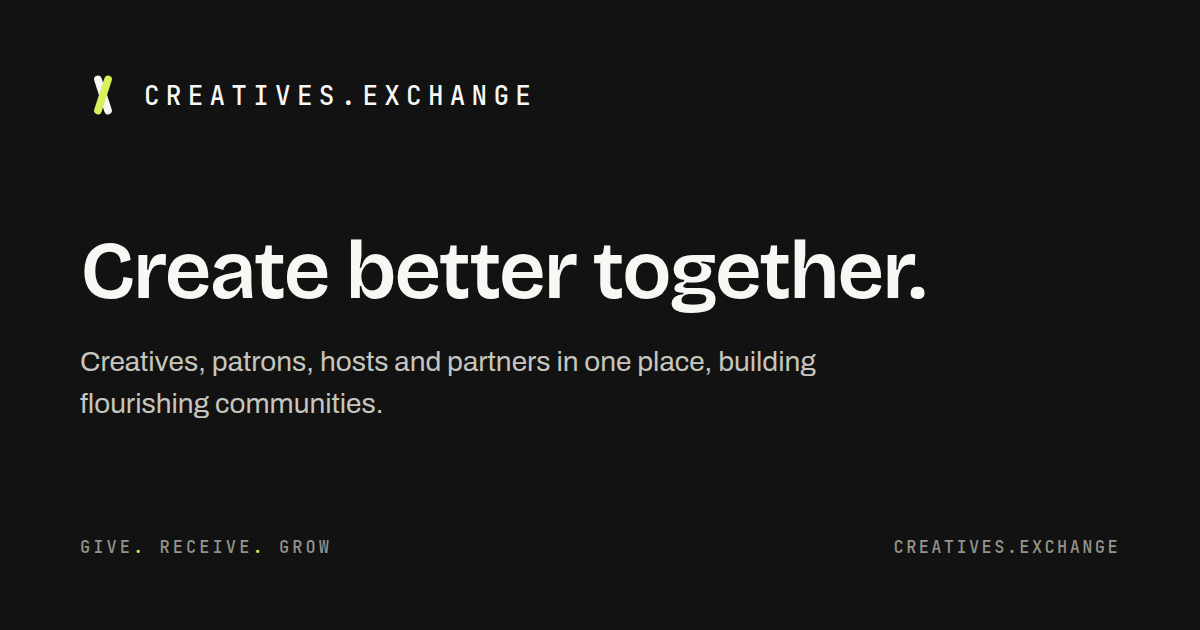
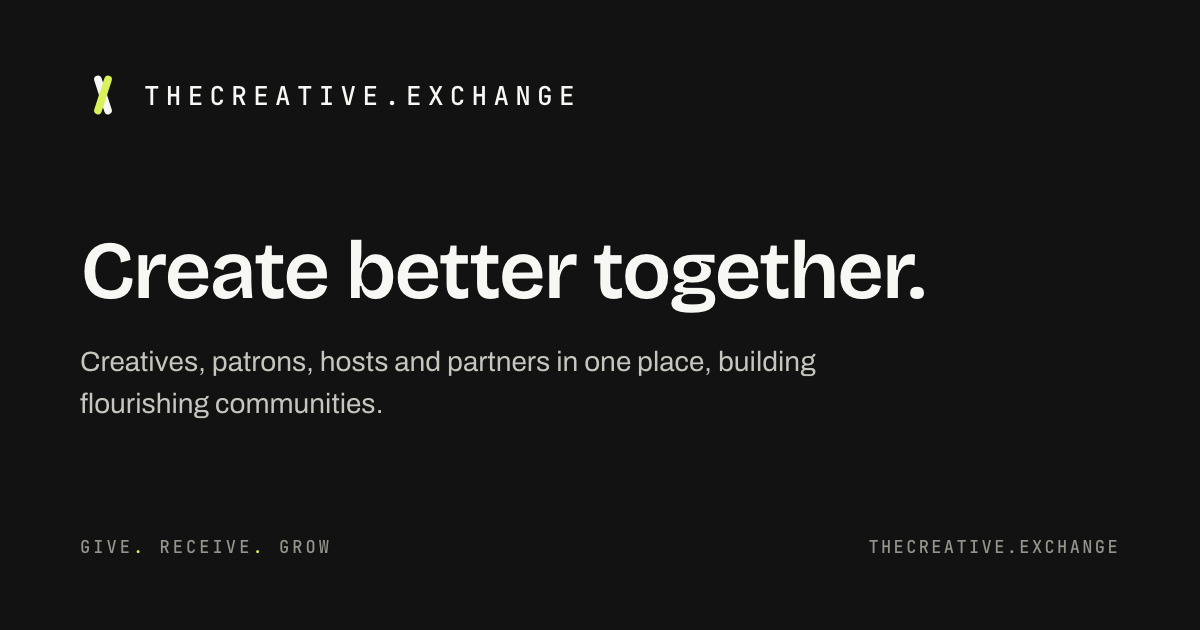
Move to thecreative.exchange; start Google sign-in on the canonical host; let people skip the first-work step
- Every site URL, og tag, sitemap, email fallback and share image now says
  thecreative.exchange. Kept on purpose: calendar UIDs (changing them
  duplicates entries already in people's calendars), the YouTube handle,
  the seed-data email marker, and the hello@ addresses until mail on the
  new domain is set up.
- Google sign-in only works when it starts on the host Convex returns to:
  the one-time verifier lives in that origin's localStorage. Starting on
  any other host (creatives.exchange, www., a community domain) sent people
  back to /login. Login and signup now hop to the canonical host first.
- Onboarding step 3 (share your first work) had no way out without
  uploading something. Adds 'Skip for now'; nothing downstream needs work.

diff --git a/app/public/events/first-table/index.html b/app/public/events/first-table/index.html
@@ -8,12 +8,12 @@
 <meta property="og:title" content="A table for the ones making things">
 <meta property="og:description" content="An evening for San Diego creatives and the people who support them. Free — save your chair.">
 <meta property="og:type" content="website">
-<meta property="og:url" content="https://creatives.exchange/events/first-table/">
-<meta property="og:image" content="https://creatives.exchange/og-image.png">
+<meta property="og:url" content="https://thecreative.exchange/events/first-table/">
+<meta property="og:image" content="https://thecreative.exchange/og-image.png">
 <meta property="og:image:width" content="1200">
 <meta property="og:image:height" content="630">
 <meta name="twitter:card" content="summary_large_image">
-<meta name="twitter:image" content="https://creatives.exchange/og-image.png">
+<meta name="twitter:image" content="https://thecreative.exchange/og-image.png">
 <link rel="stylesheet" href="/about/fonts/fonts.css">
 <style>
   :root {
@@ -93,7 +93,7 @@
 
   <div class="cta">
     <a class="btn btn-citron" href="mailto:rickmoy@gmail.com?subject=Save%20me%20a%20chair%20%E2%80%94%20A%20table%20for%20the%20ones%20making%20things&body=Name%3A%0AWhat%20I%20make%20(or%20fund%2C%20or%20host)%3A%0A">Save me a chair</a>
-    <a class="btn btn-ghost" href="mailto:?subject=worth%20a%20look%20%E2%80%94%20a%20table%20for%20SD%20creatives&body=https%3A%2F%2Fcreatives.exchange%2Fevents%2Ffirst-table%2F">Bring someone</a>
+    <a class="btn btn-ghost" href="mailto:?subject=worth%20a%20look%20%E2%80%94%20a%20table%20for%20SD%20creatives&body=https%3A%2F%2Fthecreative.exchange%2Fevents%2Ffirst-table%2F">Bring someone</a>
   </div>
 
   <div class="credit">Hosted by <b>Rick · David · Haley · Joseph</b></div>

diff --git a/app/app/routes/signup.tsx b/app/app/routes/signup.tsx
@@ -8,6 +8,7 @@ import { api } from "../../convex/_generated/api";
 import { normalizePhone } from "../../convex/phone";
 import { normalizeInviteCode } from "../../convex/inviteCode";
 import { entryCommunityArgs } from "../lib/entryCommunity";
+import { ensureOAuthHost } from "../lib/oauthHost";
 import { isCheckoutSessionId } from "../../convex/garden/ticketLink";
 
 export function meta() {
@@ -25,13 +26,13 @@ export function meta() {
     { property: "og:type", content: "website" },
     {
       property: "og:image",
-      content: "https://creatives.exchange/og-image.png",
+      content: "https://thecreative.exchange/og-image.png",
     },
     { property: "og:image:width", content: "1200" },
     { property: "og:image:height", content: "630" },
     {
       name: "twitter:image",
-      content: "https://creatives.exchange/og-image.png",
+      content: "https://thecreative.exchange/og-image.png",
     },
     { name: "twitter:card", content: "summary_large_image" },
     { name: "twitter:title", content: "Join TheCreative.exchange" },
@@ -289,6 +290,7 @@ export default function Signup() {
       setError(gateError);
       return;
     }
+    if (!ensureOAuthHost()) return;
 
     setGoogleLoading(true);
 

diff --git a/app/app/routes/login.tsx b/app/app/routes/login.tsx
@@ -4,6 +4,7 @@ import { useState, useEffect } from "react";
 import { Link, useNavigate } from "react-router";
 import { useConvexAuth } from "convex/react";
 import { normalizePhone } from "../../convex/phone";
+import { ensureOAuthHost } from "../lib/oauthHost";
 
 export function meta() {
   return [
@@ -22,13 +23,13 @@ export function meta() {
     { property: "og:type", content: "website" },
     {
       property: "og:image",
-      content: "https://creatives.exchange/og-image.png",
+      content: "https://thecreative.exchange/og-image.png",
     },
     { property: "og:image:width", content: "1200" },
     { property: "og:image:height", content: "630" },
     {
       name: "twitter:image",
-      content: "https://creatives.exchange/og-image.png",
+      content: "https://thecreative.exchange/og-image.png",
     },
     { name: "twitter:card", content: "summary_large_image" },
     { name: "twitter:title", content: "Sign In - TheCreative.exchange" },
@@ -139,6 +140,7 @@ export default function Login() {
 
   async function handleGoogleSignIn() {
     setError("");
+    if (!ensureOAuthHost()) return;
     setGoogleLoading(true);
 
     try {

diff --git a/app/convex/inviteCode.test.ts b/app/convex/inviteCode.test.ts
@@ -31,7 +31,7 @@ describe("normalizeInviteCode", () => {
 
   it("extracts the code from a pasted full link", () => {
     expect(normalizeInviteCode("creatives.exchange/signup/K7M4QD")).toBe("K7M4QD");
-    expect(normalizeInviteCode("https://creatives.exchange/signup/K7M4QD")).toBe(
+    expect(normalizeInviteCode("https://thecreative.exchange/signup/K7M4QD")).toBe(
       "K7M4QD",
     );
     expect(normalizeInviteCode("creatives.exchange/signup/K7M4QD/")).toBe("K7M4QD");
@@ -44,7 +44,7 @@ describe("normalizeInviteCode", () => {
     expect(normalizeInviteCode("creatives.exchange/signup/rick-moy")).toBe(
       "rick-moy",
     );
-    expect(normalizeInviteCode("https://creatives.exchange/signup/rick-moy-2")).toBe(
+    expect(normalizeInviteCode("https://thecreative.exchange/signup/rick-moy-2")).toBe(
       "rick-moy-2",
     );
   });
@@ -54,7 +54,7 @@ describe("normalizeInviteCode", () => {
       "rick-moy",
     );
     expect(
-      normalizeInviteCode("https://creatives.exchange/?invite=K7M4QD&utm_source=x"),
+      normalizeInviteCode("https://thecreative.exchange/?invite=K7M4QD&utm_source=x"),
     ).toBe("K7M4QD");
   });
 

diff --git a/app/app/lib/oauthHost.ts b/app/app/lib/oauthHost.ts
@@ -1,0 +1,24 @@
+import { SITE_ORIGIN } from "./eventCalendar";
+
+// Google sign-in only works when it starts on the same host it finishes on.
+// Convex Auth keeps a one-time verifier in this origin's localStorage, and
+// Convex sends the browser back to SITE_URL (the canonical host). Starting
+// on any other host (the old creatives.exchange, a www. alias, a community
+// domain) leaves the verifier behind, the code exchange fails, and the
+// person lands back on /login. So: hop to the canonical host first, same
+// path and query, and let them press the button there.
+export function isOAuthHost(hostname: string): boolean {
+  return (
+    hostname === new URL(SITE_ORIGIN).hostname ||
+    hostname === "localhost" ||
+    hostname === "127.0.0.1"
+  );
+}
+
+/** True when it's safe to start Google sign-in here; otherwise sends the
+ * browser to the same page on the canonical host and returns false. */
+export function ensureOAuthHost(): boolean {
+  if (isOAuthHost(window.location.hostname)) return true;
+  window.location.assign(SITE_ORIGIN + window.location.pathname + window.location.search);
+  return false;
+}

diff --git a/app/app/lib/eventCalendar.test.ts b/app/app/lib/eventCalendar.test.ts
@@ -60,7 +60,7 @@ describe("buildIcs", () => {
 
   it("puts the /j/ proxy link in DESCRIPTION, not a meeting URL", () => {
     expect(unfold(ics)).toContain(
-      `https://creatives.exchange/j/${base.eventId}`,
+      `https://thecreative.exchange/j/${base.eventId}`,
     );
     expect(ics).not.toContain("zoom.us");
     expect(ics).not.toContain("youtube.com");
@@ -70,7 +70,7 @@ describe("buildIcs", () => {
     // /events/:id is registered outside the auth-gated _app.tsx layout
     // (routes.ts) precisely so the guest holding this invite can open it.
     expect(unfold(ics)).toContain(
-      `URL:https://creatives.exchange/events/${base.eventId}`,
+      `URL:https://thecreative.exchange/events/${base.eventId}`,
     );
     expect(ics).not.toContain("/garden/events/");
   });
@@ -113,7 +113,7 @@ describe("buildGoogleCalendarUrl", () => {
 
   it("carries the proxy link in the details", () => {
     expect(new URL(url).searchParams.get("details")).toContain(
-      `https://creatives.exchange/j/${base.eventId}`,
+      `https://thecreative.exchange/j/${base.eventId}`,
     );
   });
 });

diff --git a/app/convex/schema.ts b/app/convex/schema.ts
@@ -405,7 +405,7 @@ export default defineSchema({
     approvedAt: v.optional(v.number()),
     // Communities this person asked to join, from the domain or
     // ?community= link they came in on (communityDomains.ts). Unset = the
-    // neutral hub (creatives.exchange).
+    // neutral hub (thecreative.exchange).
     communityIds: v.optional(v.array(v.id("hostOrgs"))),
   }).index("by_email", ["email"]),
 
@@ -848,7 +848,7 @@ export default defineSchema({
   // One table, three kinds: "community" (a named group on the platform —
   // The Garden is the first; hosts apply, operators approve), "org"/"church"
   // (a sponsor or fund owner — Abiding Practice — that may never be listed
-  // as a community), and "platform" (the single creatives.exchange row that
+  // as a community), and "platform" (the single thecreative.exchange row that
   // owns the platform-wide project pool ledger; never listed). Coverage,
   // allocations, tables, and grantContributions all key off this table.
   //

diff --git a/app/convex/emails.ts b/app/convex/emails.ts
@@ -39,7 +39,7 @@ export const sendNotificationEmail = internalAction({
       return;
     }
 
-    const baseUrl = process.env.SITE_URL || "https://creatives.exchange";
+    const baseUrl = process.env.SITE_URL || "https://thecreative.exchange";
 
     const unsubscribeUrl = args.unsubscribeToken
       ? `${baseUrl}/unsubscribe/${args.unsubscribeToken}`
@@ -108,7 +108,7 @@ export const sendNotificationEmail = internalAction({
 export const sendSignInCode = internalAction({
   args: { to: v.string(), code: v.string() },
   handler: async (_ctx, { to, code }) => {
-    const baseUrl = process.env.SITE_URL || "https://creatives.exchange";
+    const baseUrl = process.env.SITE_URL || "https://thecreative.exchange";
     const line = `Your TheCreative.exchange code is ${code}. It expires in 10 minutes. If you didn't ask for it, ignore this email.`;
     const { html } = renderNotificationEmail({
       heading: `Your code: ${code}`,

diff --git a/app/app/routes/onboarding.tsx b/app/app/routes/onboarding.tsx
@@ -670,6 +670,21 @@ export default function Onboarding() {
                 {uploading ? "Creating..." : "Share work"}
               </button>
             </div>
+            {/* Work is optional — nothing downstream needs it, and people
+                without a piece ready were stuck here with no way out. */}
+            <button
+              onClick={() => {
+                posthog?.capture("onboarding_step_completed", {
+                  step_name: "work_skipped",
+                  role: "creative",
+                });
+                setStep(4);
+              }}
+              disabled={uploading}
+              className="mt-4 w-full py-2 text-[13.5px] font-medium text-gray-700 dark:text-gray-300 underline underline-offset-4 hover:text-gray-900 dark:hover:text-white disabled:opacity-50"
+            >
+              Skip for now — add work later
+            </button>
           </div>
         )}
 

diff --git a/app/convex/email/template.test.ts b/app/convex/email/template.test.ts
@@ -5,7 +5,7 @@
 import { describe, expect, it } from "vitest";
 import { escapeHtml, renderNotificationEmail } from "./template";
 
-const BASE_URL = "https://creatives.exchange";
+const BASE_URL = "https://thecreative.exchange";
 
 describe("escapeHtml", () => {
   it("escapes the five HTML-significant characters", () => {
@@ -56,8 +56,8 @@ describe("renderNotificationEmail", () => {
       ctaUrl: "/messages/abc123",
       baseUrl: BASE_URL,
     });
-    expect(html).toContain('href="https://creatives.exchange/messages/abc123"');
-    expect(text).toContain("View Message: https://creatives.exchange/messages/abc123");
+    expect(html).toContain('href="https://thecreative.exchange/messages/abc123"');
+    expect(text).toContain("View Message: https://thecreative.exchange/messages/abc123");
   });
 
   it("includes the unsubscribe link only when unsubscribeUrl is given", () => {

diff --git a/app/scripts/og-image.html b/app/scripts/og-image.html
@@ -41,7 +41,7 @@ h1{font-family:'Bricolage Grotesque',sans-serif;font-weight:600;
       <rect x="20" y="3" width="8" height="42" rx="4" fill="#f7f7f4" transform="rotate(-18 24 24)"/>
       <rect x="20" y="3" width="8" height="42" rx="4" fill="#d7f25a" transform="rotate(18 24 24)"/>
     </svg>
-    <span class="wm">creatives.exchange</span>
+    <span class="wm">TheCreative.exchange</span>
   </div>
   <div>
     <h1>Create better together.</h1>
@@ -49,6 +49,6 @@ h1{font-family:'Bricolage Grotesque',sans-serif;font-weight:600;
   </div>
   <div class="foot">
     <span class="tag">Give<b>.</b> Receive<b>.</b> Grow</span>
-    <span class="url">creatives.exchange</span>
+    <span class="url">thecreative.exchange</span>
   </div>
 </body></html>

diff --git a/app/convex/garden/communityDomains.ts b/app/convex/garden/communityDomains.ts
@@ -1,8 +1,8 @@
 // Community domains (Rick, 2026-09-29): each community can have its own
 // front-door domains — thegardensd.org for The Garden, createsd.org for
 // Create SD. A visitor who arrives on one is tagged to that community
-// (waitlist today; signup later). creatives.exchange is the neutral hub and
-// belongs to no community. Accounts and sign-in stay on creatives.exchange.
+// (waitlist today; signup later). thecreative.exchange is the neutral hub and
+// belongs to no community. Accounts and sign-in stay on thecreative.exchange.
 //   npx convex run garden/communityDomains:setCommunityDomains '{"slug":"create-sd","domains":["createsd.org"]}' [--prod]
 
 import { v } from "convex/values";
